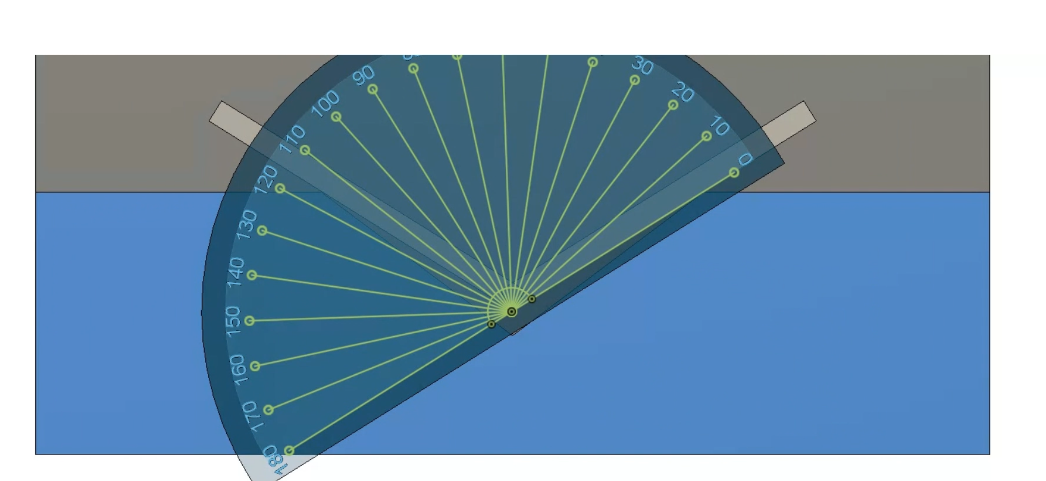
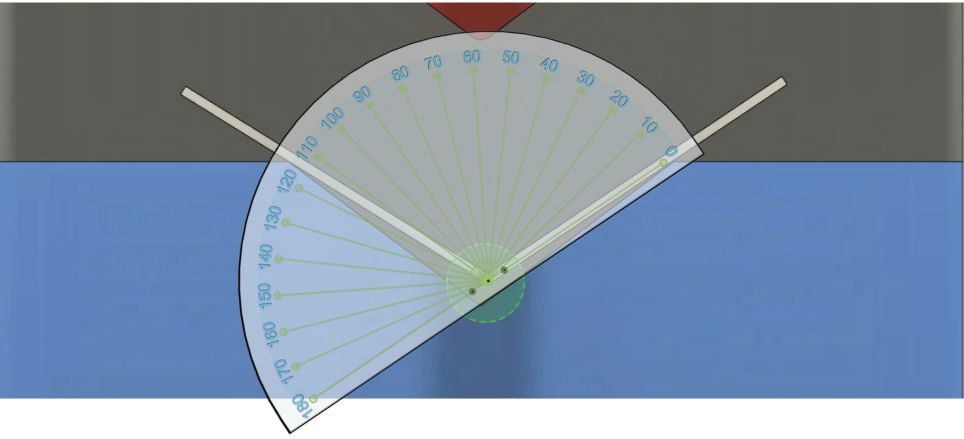
update

diff --git a/labs/exp5/procedure.html b/labs/exp5/procedure.html
@@ -270,15 +270,26 @@
 
   <li>
     <strong>Measuring bend angle before release:</strong>
-    The view switches to a large protractor overlapped by the bent workpiece.
-    The protractor reading is <span style="font-weight:bold; color:#007bff;">106&deg;</span>, and the text below states
-    <span style="font-weight:bold;">Measurement on protractor: 106&deg;</span> and
-    <span style="font-weight:bold;">Bend angle before release: 180&deg; − 106&deg; = 74&deg;</span>,
-    meaning the workpiece has been bent to a <span style="font-weight:bold; color:#17a2b8;">74&deg; internal angle</span>
-    while the punch is still pressing it.
-  </li><br>
+    A large protractor appears on the screen and can be dragged over the bent workpiece.
+    The user aligns the protractor with the arms of the bent sheet to visually measure the angle
+    while the punch is still pressing the workpiece. This step helps in observing the bend angle
+    before the release of force.
+</li><br>
 
   <img src="images/procedure/6.png" alt=" "
+     class="proc-img">
+
+
+  <li>
+    <strong>Final bend angle and spring-back:</strong>
+    The protractor view appears again after the workpiece is released and allowed to relax.
+    The user rotates and aligns the protractor with the arms of the relaxed sheet to measure
+    the final bend angle. By comparing this angle with the bend angle before release,
+    the spring-back effect can be clearly observed.
+</li><br>
+
+
+  <img src="images/procedure/8.png" alt=" "
      class="proc-img">
 
   <li>
@@ -292,19 +303,34 @@
   <img src="images/procedure/7.png" alt=" "
      class="proc-img">
 
-  <li>
-    <strong>Final bend angle and spring-back:</strong>
-    The protractor view appears again with the relaxed workpiece.
-    The protractor now reads <span style="font-weight:bold; color:#007bff;">116&deg;</span>, and the text below shows
-    <span style="font-weight:bold;">Measurement on protractor: 116&deg;</span>,
-    <span style="font-weight:bold;">Final bend angle after release: 180&deg; − 116&deg; = 64&deg;</span>, and
-    <span style="font-weight:bold;">Spring-back angle = 74&deg; − 64&deg; = 10&deg;</span>,
-    indicating that after unloading, the workpiece opened up by
-    <span style="font-weight:bold; color:#17a2b8;">10&deg; (spring‑back)</span>.
-  </li><br>
 
-  <img src="images/procedure/8.png" alt=" "
+  <li>
+    <strong>Measuring bend angle after punch removal:</strong>
+    After the punch is removed, a large protractor appears on the screen.
+    The user drags, rotates, and aligns the protractor with the arms of the bent workpiece
+    to visually measure the bend angle.
+</li><br>
+
+<img src="images/procedure/9.png" alt="Measuring bend angle after punch removal"
      class="proc-img">
+
+
+<li>
+    <strong>Measuring final bend angle after punch removal (spring-back):</strong>
+    After the punch is removed and the workpiece is allowed to relax completely,
+    the protractor appears again. The user rotates and aligns the protractor with
+    the arms of the relaxed sheet to measure the final bend angle and observe
+    the spring-back effect.
+</li><br>
+
+<img src="images/procedure/10.png" alt="Measuring final bend angle after punch removal"
+     class="proc-img">
+
+
+  
+
+  
+  
 </ol>
 
 
